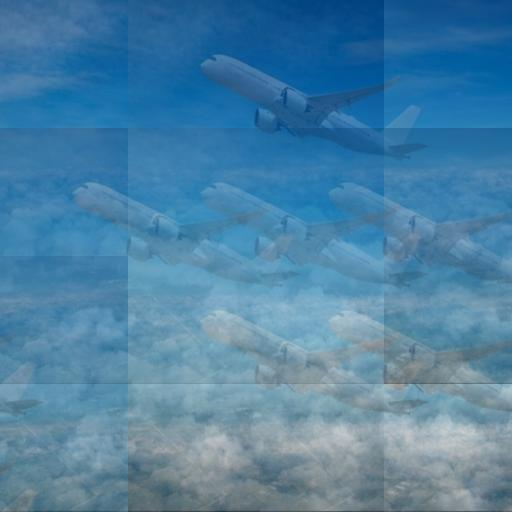
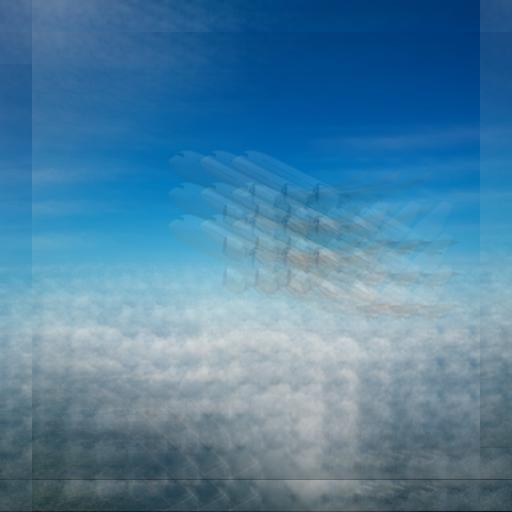
implemented basic functionality for limited attention

diff --git a/vit_visualization.py b/vit_visualization.py
@@ -1,0 +1,176 @@
+import torch
+from torch import nn
+from einops import rearrange, repeat
+from einops.layers.torch import Rearrange
+import torchvision.transforms as transforms
+
+# helpers
+
+def pair(t):
+    return t if isinstance(t, tuple) else (t, t)
+
+# classes
+
+class FeedForward(nn.Module):
+    def __init__(self, dim, hidden_dim, dropout = 0.):
+        super().__init__()
+        self.net = nn.Sequential(
+            nn.LayerNorm(dim),
+            nn.Linear(dim, hidden_dim),
+            nn.GELU(),
+            nn.Dropout(dropout),
+            nn.Linear(hidden_dim, dim),
+            nn.Dropout(dropout)
+        )
+
+    def forward(self, x):
+        return self.net(x)
+
+class Attention(nn.Module):
+    def __init__(self, dim, heads = 8, dim_head = 64, dropout = 0.):
+        super().__init__()
+        inner_dim = dim_head *  heads
+        project_out = not (heads == 1 and dim_head == dim)
+
+        self.heads = heads
+        self.scale = dim_head ** -0.5
+
+        self.norm = nn.LayerNorm(dim)
+
+        self.attend = nn.Softmax(dim = -1)
+        self.dropout = nn.Dropout(dropout)
+
+        self.to_qkv = nn.Linear(dim, inner_dim * 3, bias = False)
+
+        self.to_out = nn.Sequential(
+            nn.Linear(inner_dim, dim),
+            nn.Dropout(dropout)
+        ) if project_out else nn.Identity()
+
+    def forward(self, x):
+        x = self.norm(x)
+
+        qkv = self.to_qkv(x).chunk(3, dim = -1)
+        q, k, v = map(lambda t: rearrange(t, 'b n (h d) -> b h n d', h = self.heads), qkv)
+
+        dots = torch.matmul(q, k.transpose(-1, -2)) * self.scale
+
+        attn = self.attend(dots)
+        attn = self.dropout(attn)
+
+        out = torch.matmul(attn, v)
+        out = rearrange(out, 'b h n d -> b n (h d)')
+        return self.to_out(out)
+
+class Transformer(nn.Module):
+    def __init__(self, dim, depth, heads, dim_head, mlp_dim, dropout = 0.):
+        super().__init__()
+        self.norm = nn.LayerNorm(dim)
+        self.layers = nn.ModuleList([])
+        for _ in range(depth):
+            self.layers.append(nn.ModuleList([
+                Attention(dim, heads = heads, dim_head = dim_head, dropout = dropout),
+                FeedForward(dim, mlp_dim, dropout = dropout)
+            ]))
+
+    def forward(self, x):
+        for attn, ff in self.layers:
+            x = attn(x) + x
+            x = ff(x) + x
+
+        return self.norm(x)
+
+class ViT(nn.Module):
+    def __init__(self, *, image_size, patch_size, num_classes, dim, depth, heads, mlp_dim, pool = 'cls', channels = 3, dim_head = 64, dropout = 0., emb_dropout = 0.):
+        super().__init__()
+        image_height, image_width = pair(image_size)
+        patch_height, patch_width = pair(patch_size)
+        self.patch_height = patch_height
+        self.channels = channels
+        self.patch_width = patch_width
+        self.image_height = image_height
+        self.image_width = image_width
+
+        assert image_height % patch_height == 0 and image_width % patch_width == 0, 'Image dimensions must be divisible by the patch size.'
+
+        num_patches = (image_height // patch_height) * (image_width // patch_width)
+        patch_dim = channels * patch_height * patch_width
+        assert pool in {'cls', 'mean'}, 'pool type must be either cls (cls token) or mean (mean pooling)'
+        self.pre_to_patch_embedding = Rearrange('b c (h p1) (w p2) -> b (h w) (p1 p2 c)', p1 = self.patch_height, p2 = self.patch_width)
+        self.unpatchify = Rearrange('b (h w) (p1 p2 c) -> b c (h p1) (w p2)', w = image_width // patch_width, h = image_height // patch_height, p1 = self.patch_height, p2 = self.patch_width)
+        self.to_patch_embedding = nn.Sequential(
+            nn.LayerNorm(patch_dim),
+            nn.Linear(patch_dim, dim),
+            nn.LayerNorm(dim),
+        )
+
+        self.pos_embedding = nn.Parameter(torch.randn(1, num_patches + 1, dim))
+        self.cls_token = nn.Parameter(torch.randn(1, 1, dim))
+        self.dropout = nn.Dropout(emb_dropout)
+
+        self.transformer = Transformer(dim, depth, heads, dim_head, mlp_dim, dropout)
+
+        self.pool = pool
+        self.to_latent = nn.Identity()
+
+        self.mlp_head = nn.Linear(dim, num_classes)
+
+
+    def generate_attention_mask(self, sequence_length, mask_constant):
+        mask = torch.zeros((1, sequence_length, sequence_length))
+        mask.fill_(mask_constant)
+        indices = torch.arange(sequence_length)
+        num_offset_height_patches = self.image_width // self.patch_width
+        mask[0, indices, indices] = 0
+        mask[0, indices[:-1] + 1, indices[:-1]] = 0 # attends to the patch on the left
+        mask[0, indices[1:] - 1, indices[1:]] = 0 # attends to the patch on the right
+        mask[0, indices[num_offset_height_patches:] - num_offset_height_patches, indices[num_offset_height_patches:]] = 0 # attends to the one on top
+        mask[0, indices[num_offset_height_patches - 1:] - num_offset_height_patches + 1, indices[num_offset_height_patches - 1:]] = 0 # top right
+        mask[0, indices[num_offset_height_patches + 1:] - num_offset_height_patches - 1, indices[num_offset_height_patches + 1:]] = 0
+        
+
+        mask[0, indices[:-num_offset_height_patches] + num_offset_height_patches, indices[:-num_offset_height_patches]] = 0 # attend to the bottom token
+        mask[0, indices[:-num_offset_height_patches + 1] + num_offset_height_patches - 1, indices[:-num_offset_height_patches + 1]] = 0 # bottom left
+        mask[0, indices[:-num_offset_height_patches - 1] + num_offset_height_patches + 1, indices[:-num_offset_height_patches - 1]] = 0 # bottom right
+
+        print(mask)
+        return mask
+
+
+
+    def forward(self, img, mask_constant = float('-inf')): # mask constant is what we set the mask to
+        
+        b, c, h, w = img.shape
+        if h != self.image_height or w != self.image_width or c != self.channels:
+            raise AssertionError("Height, width, or num_channels does not match")
+        img = self.pre_to_patch_embedding(img)
+        batch_size, sequence_length, features = img.shape
+        mask = self.generate_attention_mask(sequence_length, mask_constant)
+        mask = torch.softmax(mask, dim = -1)
+        img = torch.matmul(mask, img)
+        
+        img = self.unpatchify(img)
+        inverse_transform = transforms.Compose([
+            transforms.ToPILImage(),
+        ])
+        
+        thingy = inverse_transform(img[0, :, :, :])
+        thingy.save("View.jpg")
+        exit()
+        inverse_transform = transforms.Compose([
+            transforms.ToPILImage(),
+        ])
+        x = self.to_patch_embedding(img)
+        b, n, _ = x.shape
+
+        cls_tokens = repeat(self.cls_token, '1 1 d -> b 1 d', b = b)
+        x = torch.cat((cls_tokens, x), dim=1)
+        x += self.pos_embedding[:, :(n + 1)]
+        x = self.dropout(x)
+
+        x = self.transformer(x)
+
+        x = x.mean(dim = 1) if self.pool == 'mean' else x[:, 0]
+
+        x = self.to_latent(x)
+        return self.mlp_head(x)

diff --git a/biased_vit.py b/biased_vit.py
@@ -47,7 +47,7 @@ class Attention(nn.Module):
             nn.Dropout(dropout)
         ) if project_out else nn.Identity()
 
-    def forward(self, x):
+    def forward(self, x, mask):
         x = self.norm(x)
 
         qkv = self.to_qkv(x).chunk(3, dim = -1)
@@ -55,7 +55,7 @@ class Attention(nn.Module):
 
         dots = torch.matmul(q, k.transpose(-1, -2)) * self.scale
 
-        attn = self.attend(dots)
+        attn = self.attend(dots + mask)
         attn = self.dropout(attn)
 
         out = torch.matmul(attn, v)
@@ -73,9 +73,9 @@ class Transformer(nn.Module):
                 FeedForward(dim, mlp_dim, dropout = dropout)
             ]))
 
-    def forward(self, x):
+    def forward(self, x, mask):
         for attn, ff in self.layers:
-            x = attn(x) + x
+            x = attn(x, mask = mask) + x
             x = ff(x) + x
 
         return self.norm(x)
@@ -116,48 +116,32 @@ class ViT(nn.Module):
         self.mlp_head = nn.Linear(dim, num_classes)
 
 
-    def generate_attention_mask(self, sequence_length, mask_constant):
-        mask = torch.zeros((1, sequence_length, sequence_length))
+    def generate_attention_mask(self, sequence_length, mask_constant, device = "cpu"):
+        mask = torch.zeros((1, sequence_length, sequence_length), device = device)
         mask.fill_(mask_constant)
         indices = torch.arange(sequence_length)
         num_offset_height_patches = self.image_width // self.patch_width
         mask[0, indices, indices] = 0
         mask[0, indices[:-1] + 1, indices[:-1]] = 0 # attends to the patch on the left
         mask[0, indices[1:] - 1, indices[1:]] = 0 # attends to the patch on the right
-        mask[0, indices[num_offset_height_patches:] - num_offset_height_patches, indices[num_offset_height_patches:]] = 0 # attend to the token on top
-
-
+        mask[0, indices[num_offset_height_patches:] - num_offset_height_patches, indices[num_offset_height_patches:]] = 0 # attends to the one on top
+        mask[0, indices[num_offset_height_patches - 1:] - num_offset_height_patches + 1, indices[num_offset_height_patches - 1:]] = 0 # top right
+        mask[0, indices[num_offset_height_patches + 1:] - num_offset_height_patches - 1, indices[num_offset_height_patches + 1:]] = 0
         mask[0, indices[:-num_offset_height_patches] + num_offset_height_patches, indices[:-num_offset_height_patches]] = 0 # attend to the bottom token
-        mask[0, indices[:-num_offset_height_patches + 1] + num_offset_height_patches - 1, indices[:-num_offset_height_patches + 1]]
+        mask[0, indices[:-num_offset_height_patches + 1] + num_offset_height_patches - 1, indices[:-num_offset_height_patches + 1]] = 0 # bottom left
         mask[0, indices[:-num_offset_height_patches - 1] + num_offset_height_patches + 1, indices[:-num_offset_height_patches - 1]] = 0 # bottom right
-
-        print(mask)
         return mask
 
 
 
     def forward(self, img, mask_constant = float('-inf')): # mask constant is what we set the mask to
-        
         b, c, h, w = img.shape
         if h != self.image_height or w != self.image_width or c != self.channels:
             raise AssertionError("Height, width, or num_channels does not match")
         img = self.pre_to_patch_embedding(img)
         batch_size, sequence_length, features = img.shape
         mask = self.generate_attention_mask(sequence_length, mask_constant)
-        mask = torch.softmax(mask, dim = -1)
-        img = torch.matmul(mask, img)
-        
-        img = self.unpatchify(img)
-        inverse_transform = transforms.Compose([
-            transforms.ToPILImage(),
-        ])
-        
-        thingy = inverse_transform(img[0, :, :, :])
-        thingy.save("View.jpg")
-        exit()
-        inverse_transform = transforms.Compose([
-            transforms.ToPILImage(),
-        ])
+
         x = self.to_patch_embedding(img)
         b, n, _ = x.shape
 
@@ -166,7 +150,7 @@ class ViT(nn.Module):
         x += self.pos_embedding[:, :(n + 1)]
         x = self.dropout(x)
 
-        x = self.transformer(x)
+        x = self.transformer(x, mask = mask)
 
         x = x.mean(dim = 1) if self.pool == 'mean' else x[:, 0]
 

diff --git a/mask_visualization_script.py b/mask_visualization_script.py
@@ -1,4 +1,4 @@
-from vit import ViT
+from vit_visualization import ViT
 import torch
 import torchvision.transforms as transforms
 from PIL import Image
@@ -23,7 +23,7 @@ inverse_transform = transforms.Compose([
 ])
 model = ViT(
     image_size = (512, 512),
-    patch_size = 128,
+    patch_size = 32,
     num_classes = 1000,
     dim = 1024,
     depth = 3,
